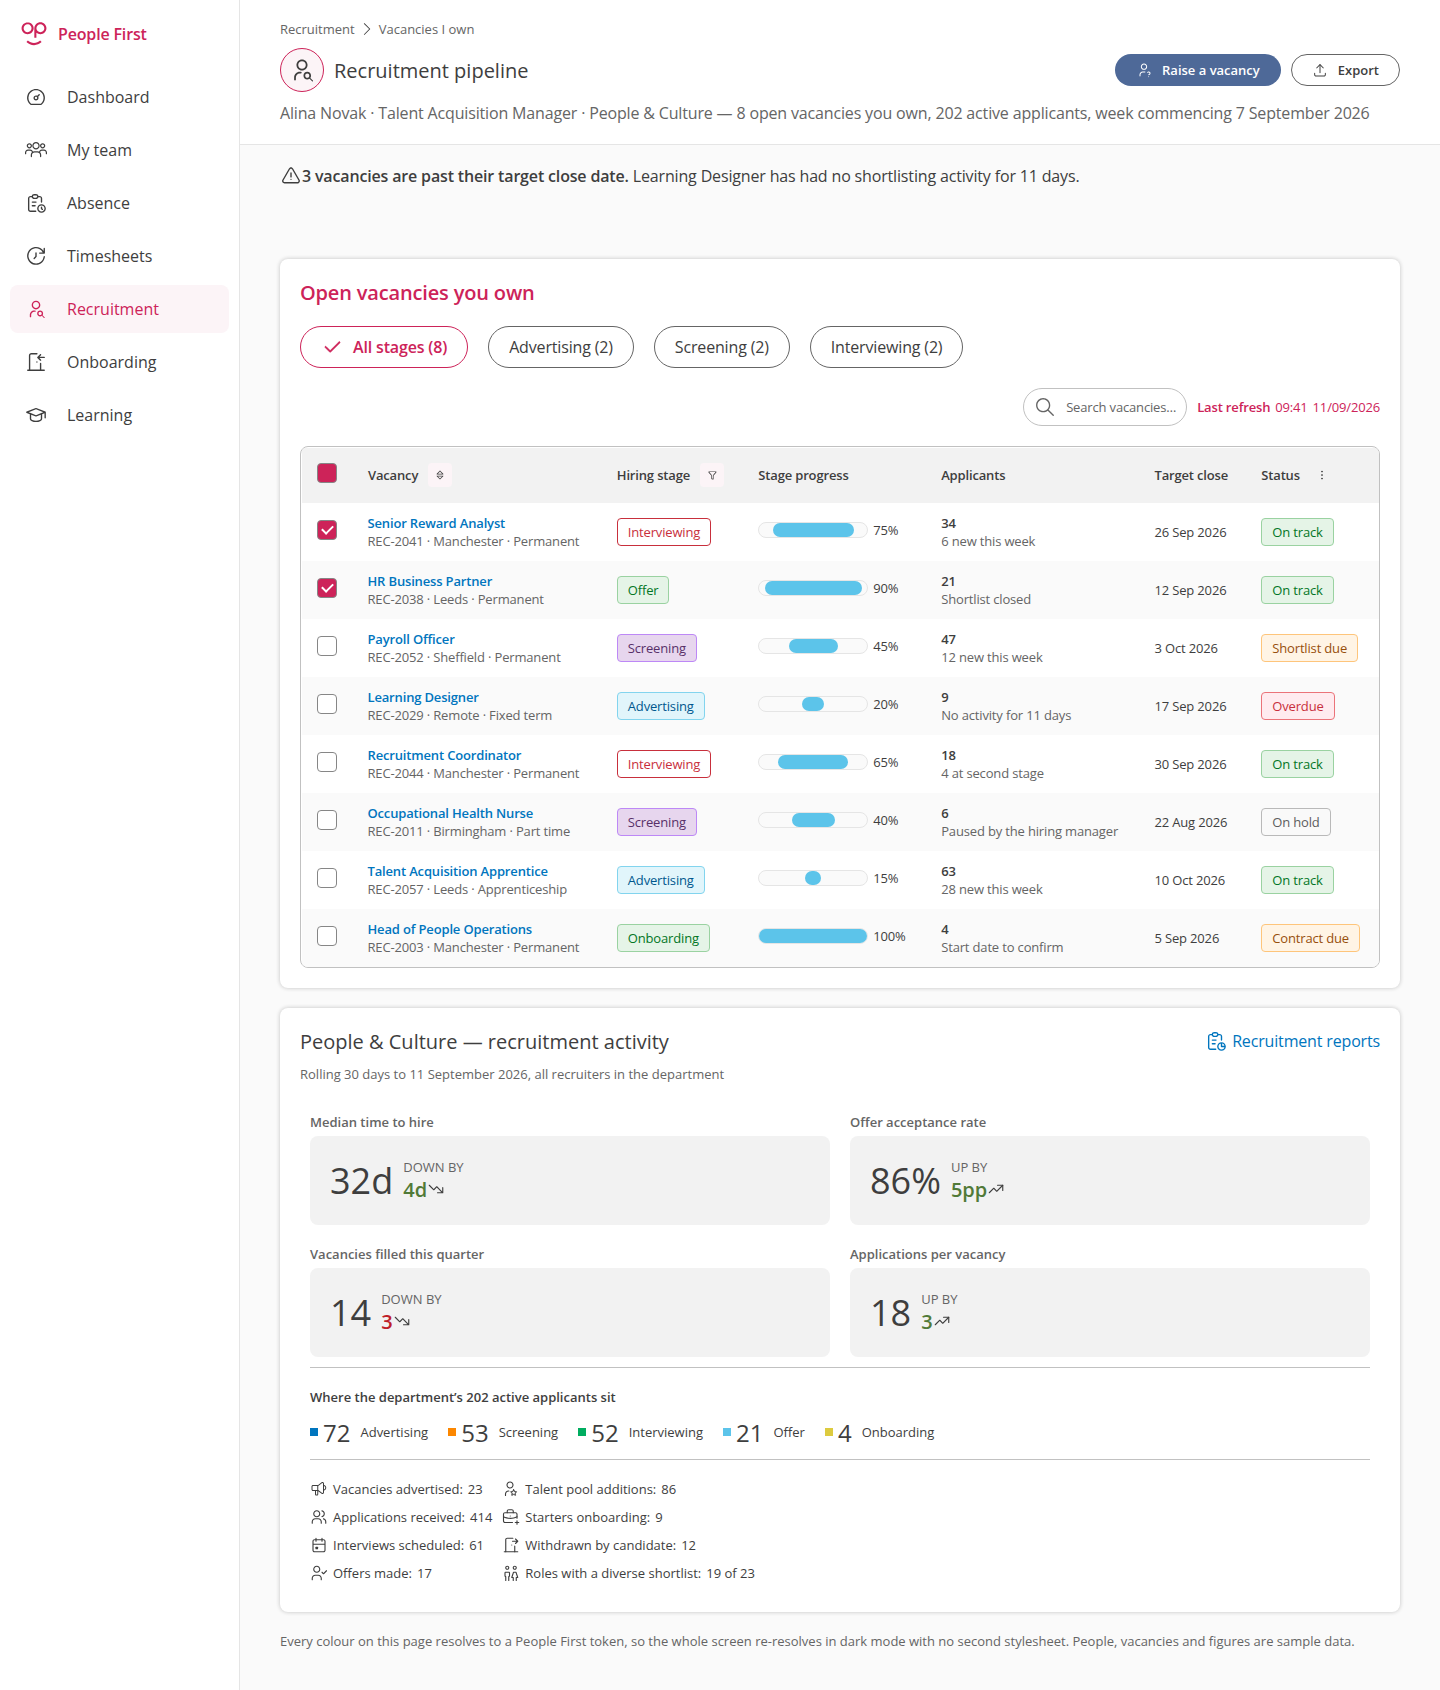
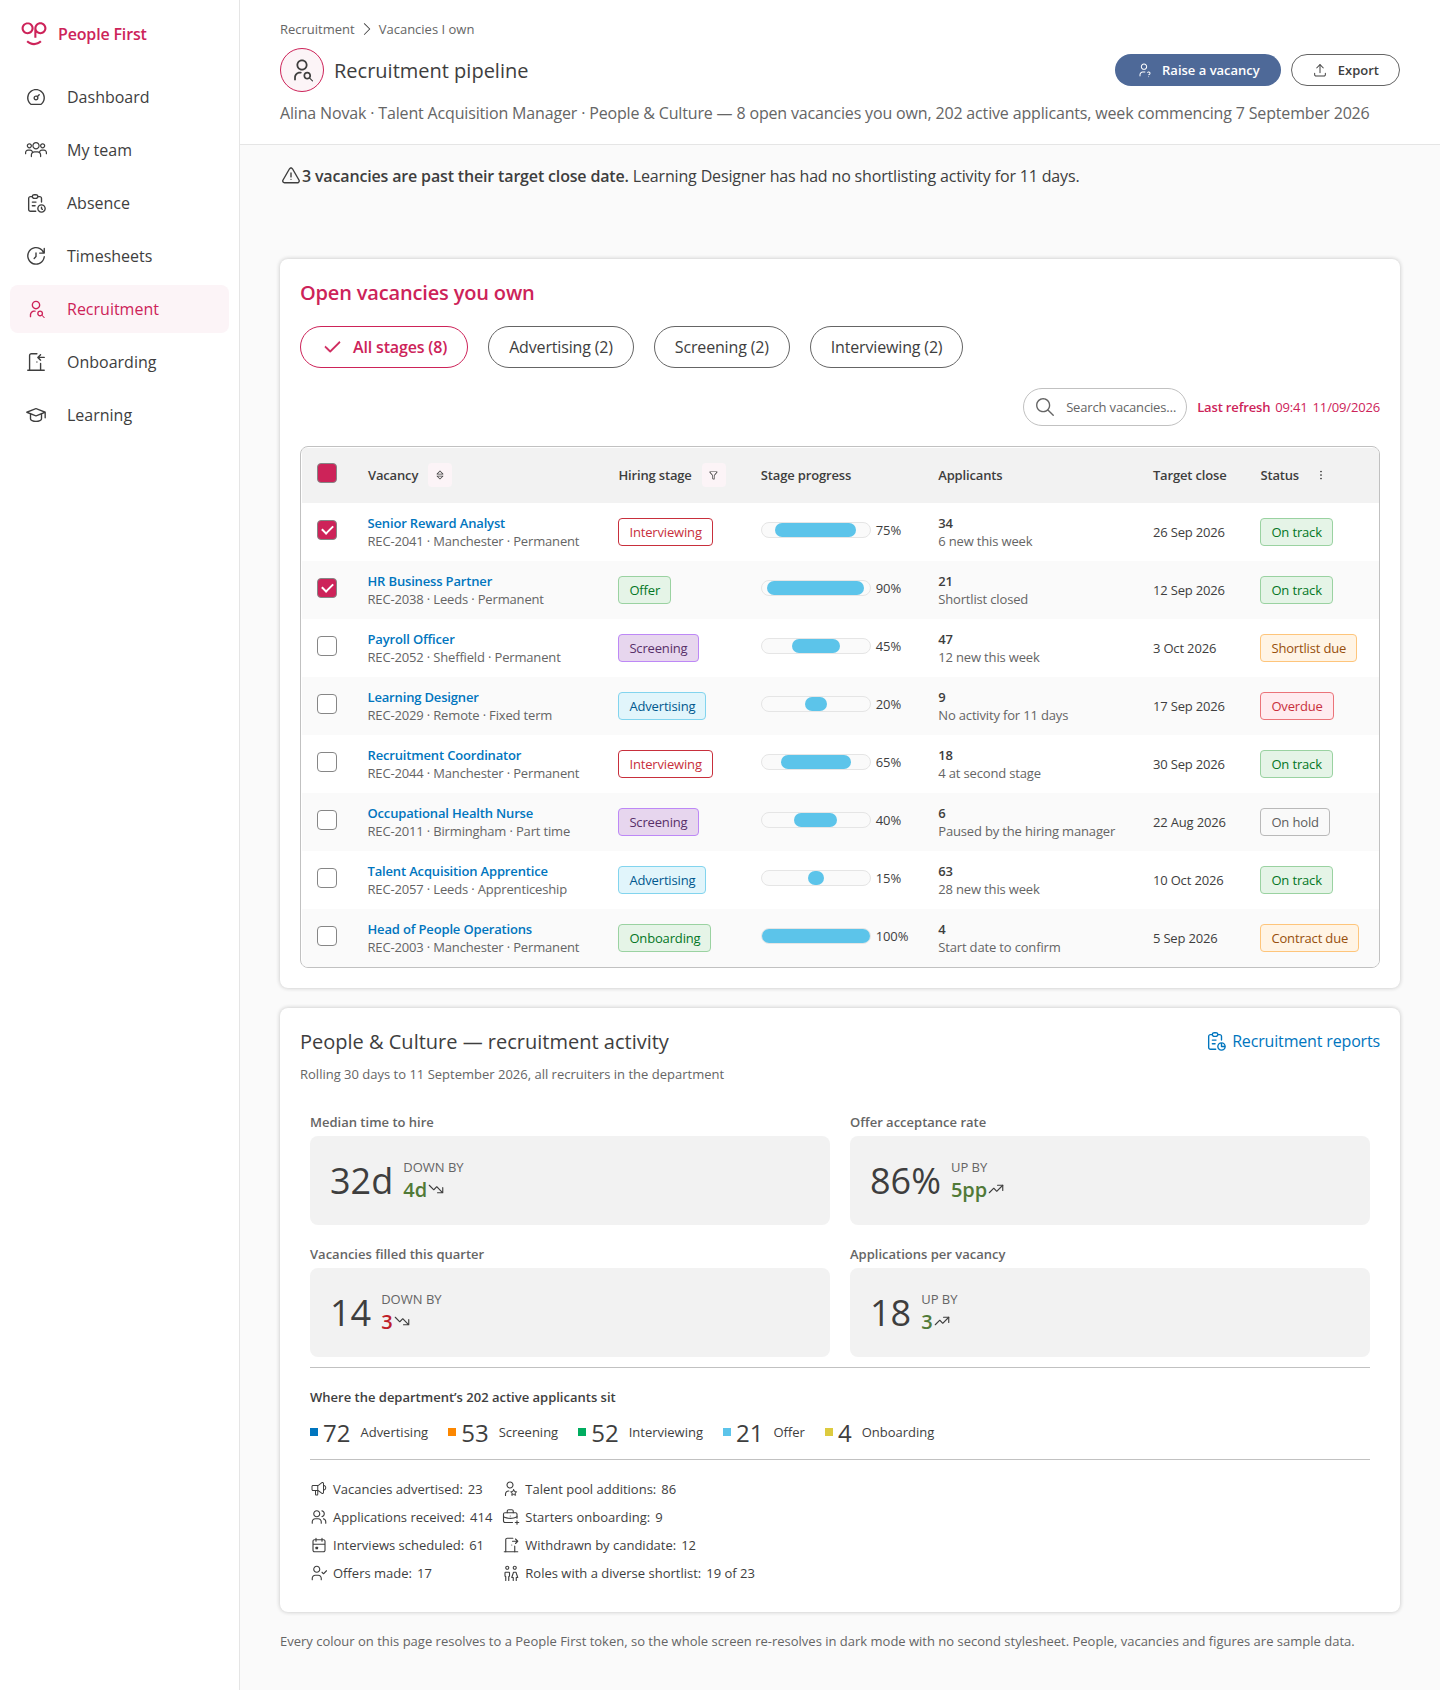
Three faults found by looking: the panel header, the footer and the bars
CLOSE BUTTON. payroll-run-summary wrote .sp-head and .sp-foot for its side
panel and gave them no CSS at all, and `.grow` is scoped to `.topbar` so it did
nothing there — the close button sat against the name instead of at the top
right. It uses pf-side-panel-header and pf-sticky-footer now, which
timesheet-approvals already did.

That is also worth recording about check-off-system: a hand-written component
with NO styles is the one kind it cannot see, because there is no property to
catch overriding a component. The score stayed at 163 throughout.

FOOTER. Both panels used Sticky footer's Stepper variant, which Figma lays out
SPACE_BETWEEN — that is for Back/Next. Approve and Raise query are both forward
actions, so Default (left-packed, the component's own 20px gap) is the variant
that fits.

PROGRESS BARS. Reported three times. Settled with evidence rather than another
restatement: Table cell (AG) has NO alignment axis at all — all five variants
are HORIZONTAL CENTER MIN and the stylesheet has zero rules keyed on cell
alignment; the header offers Left, Right and Checkbox, and no Centre. So where
the bar sits inside the cell is not the page's to change.

What the page does own is the COLUMN WIDTH, and that was the real cause: Stage
progress was taking a share of the table's surplus width while its contents hug
a 110px track, which stranded the bars with a field of empty cell beside them.
The column is sized to its content now and the surplus goes to Vacancy and
[…]

diff --git a/prototypes/payroll-run-summary.html b/prototypes/payroll-run-summary.html
@@ -12513,6 +12513,16 @@ th.col-status { width: 152px; }
   background: var(--pf-bg-primary); box-shadow: var(--pf-shadow-drop-shadow);
   display: flex; flex-direction: column;
 }
+/* The header and the footer are LIBRARY COMPONENTS, and were hand-written divs with no CSS
+   at all until the design owner pointed at both: `.sp-head` and `.sp-foot` had no rules in
+   this file, so the close button sat against the name instead of at the top right and the
+   footer had no box of its own. `Side panel header` and `Sticky footer` are real classes with
+   real geometry from Figma — 60px/10 15 and 52px/10 15. `width: 100%` and `flex: none` are
+   the inline-to-block promotion; the title growing is layout on a CHILD, not on the class. */
+.pf-side-panel-header { width: 100%; flex: none; }
+.pf-side-panel-header .grow { flex: 1; min-width: 0; overflow: hidden;
+                              text-overflow: ellipsis; white-space: nowrap; }
+.pf-sticky-footer { width: 100%; flex: none; }
 .sp-body { flex: 1; overflow-y: auto; padding: var(--pf-space-large);
            display: flex; flex-direction: column; gap: var(--pf-space-large); }
 .sp-person { display: flex; align-items: center; gap: var(--pf-space-medium); }
@@ -12908,7 +12918,7 @@ select.control { appearance: none; background-image:
 
   <!-- Side panel: review one employee's pay -->
   <aside class="sidepanel" aria-labelledby="sp-title">
-    <div class="sp-head">
+    <div class="pf-side-panel-header" data-size="Default" data-pf-id="side-panel-header-tomasz-kowalczyk">
       <span class="grow" id="sp-title">Tomasz Kowalczyk</span>
       <button class="pf-button pf-button--icon-only" data-type="Hollow" type="button" aria-label="Close panel" data-pf-id="button-close-panel"><svg class="pf-icon" width="14" height="14" aria-hidden="true" focusable="false" viewBox="0 0 36 36" fill="currentColor"><path fill-rule="evenodd" d="M27.8 8.2C28.23 8.64 28.23 9.36 27.8 9.8L9.8 27.8C9.36 28.23 8.64 28.23 8.2 27.8C7.77 27.36 7.77 26.64 8.2 26.2L26.2 8.2C26.64 7.77 27.36 7.77 27.8 8.2Z"/><path fill-rule="evenodd" d="M8.2 8.2C8.64 7.77 9.36 7.77 9.8 8.2L27.8 26.2C28.23 26.64 28.23 27.36 27.8 27.8C27.36 28.23 26.64 28.23 26.2 27.8L8.2 9.8C7.77 9.36 7.77 8.64 8.2 8.2Z"/></svg></button>
     </div>
@@ -12992,7 +13002,7 @@ select.control { appearance: none; background-image:
       </p>
     </div>
 
-    <div class="sp-foot">
+    <div class="pf-sticky-footer" data-default="Default" data-pf-id="sticky-footer-approve-pay">
       <button class="pf-button" data-type="Positive" type="button" disabled data-pf-id="button-approve-pay"><svg class="pf-icon" width="14" height="14" aria-hidden="true" focusable="false" viewBox="0 0 36 36" fill="currentColor"><path d="M29.2 9.7C29.64 9.27 30.36 9.27 30.8 9.7C31.23 10.14 31.23 10.86 30.8 11.3L15.8 26.3C15.36 26.73 14.64 26.73 14.2 26.3L6.7 18.8C6.27 18.36 6.27 17.64 6.7 17.2C7.14 16.77 7.86 16.77 8.3 17.2L15 23.91L29.2 9.7Z" stroke="currentColor" stroke-linecap="round" stroke-linejoin="round"/></svg>Approve pay</button>
       <button class="pf-button" data-type="Negative" type="button" data-pf-id="button-raise-query"><svg class="pf-icon" width="14" height="14" aria-hidden="true" focusable="false" viewBox="0 0 36 36" fill="currentColor"><path fill-rule="evenodd" d="M27.8 8.2C28.23 8.64 28.23 9.36 27.8 9.8L9.8 27.8C9.36 28.23 8.64 28.23 8.2 27.8C7.77 27.36 7.77 26.64 8.2 26.2L26.2 8.2C26.64 7.77 27.36 7.77 27.8 8.2Z"/><path fill-rule="evenodd" d="M8.2 8.2C8.64 7.77 9.36 7.77 9.8 8.2L27.8 26.2C28.23 26.64 28.23 27.36 27.8 27.8C27.36 28.23 26.64 28.23 26.2 27.8L8.2 9.8C7.77 9.36 7.77 8.64 8.2 8.2Z"/></svg>Raise query</button>
     </div>

diff --git a/prototypes/recruitment-pipeline.html b/prototypes/recruitment-pipeline.html
@@ -12384,6 +12384,15 @@ svg { display: block; }
    value. (`border-collapse` used to need this marker too, because check-off-system read it
    as a border property. It is table layout, not paint, and is free now.) */
 table { width: 100%; border-collapse: collapse; min-width: 1000px; }
+/* pf-new: COLUMN SIZING IS PAGE LAYOUT — the <table> is the page's, not a component.
+   `Table cell (AG)` packs its contents left on every one of its five variants and Figma gives
+   it no Alignment axis at all (the header has Left/Right/Checkbox, and no Centre), so where the
+   bar sits INSIDE the cell is not the page's to change. What the page does own is how wide the
+   column is, and Stage progress was taking a share of the table's surplus width while its
+   contents hug a 110px track — which is what stranded the bars against the left edge with a
+   field of empty cell beside them. `width: 1%` with nowrap is the auto-table idiom for "size
+   this column to its own content"; the surplus goes to Vacancy and Applicants, which use it. */
+table th:nth-child(4), table td:nth-child(4) { width: 1%; white-space: nowrap; }
 /* Line height is `normal` because that is what Figma sets on all 23 text styles; a
    cell treats its Figma height as a minimum, so an icon or a second line grows it. */
 thead th { text-align: left; white-space: nowrap; line-height: normal; }
@@ -12400,7 +12409,13 @@ td.pf-table-cell-ag[data-type][data-style] { display: table-cell; vertical-align
 .headcell { display: flex; align-items: center; gap: var(--pf-space-small); }
 .cellstack { display: flex; flex-direction: column; }
 .cellrow { display: flex; align-items: center; gap: var(--pf-space-small); }
-.pf-table-progress-bar { width: 100%; }
+/* The component owns its own width and its own packing: Figma draws `Table progress bar` as
+   HORIZONTAL CENTER MIN around a 110px track, so it hugs. Forcing `width: 100%` here stretched
+   it across the whole column while its contents stayed packed left, which is what left the bars
+   stranded against the edge with a field of empty cell to their right. Reported three times.
+   The design system has NO centre alignment for a table cell — Left, Right and Checkbox are the
+   only variants Figma draws — so the honest fix is to stop overriding the component, not to
+   invent one. */
 /* A Tags pill is 28px tall in Figma; a two-word status that wraps breaks it. */
 .pf-tags { white-space: nowrap; }
 

diff --git a/prototypes/timesheet-approvals.html b/prototypes/timesheet-approvals.html
@@ -12866,7 +12866,7 @@ select.pf-field { background-image:
       </p>
     </div>
 
-    <div class="pf-sticky-footer" data-default="Stepper" data-pf-id="sticky-footer-approve-raise-query">
+    <div class="pf-sticky-footer" data-default="Default" data-pf-id="sticky-footer-approve-raise-query">
       <button class="pf-button" data-type="Positive" type="button" data-pf-id="button-approve"><svg width="14" height="14" aria-hidden="true" focusable="false" viewBox="0 0 36 36" fill="currentColor"><path d="M29.2 9.7C29.64 9.27 30.36 9.27 30.8 9.7C31.23 10.14 31.23 10.86 30.8 11.3L15.8 26.3C15.36 26.73 14.64 26.73 14.2 26.3L6.7 18.8C6.27 18.36 6.27 17.64 6.7 17.2C7.14 16.77 7.86 16.77 8.3 17.2L15 23.91L29.2 9.7Z" stroke="currentColor" stroke-linecap="round" stroke-linejoin="round"/></svg>Approve</button>
       <button class="pf-button" data-type="Negative" type="button" data-pf-id="button-raise-query"><svg width="14" height="14" aria-hidden="true" focusable="false" viewBox="0 0 36 36" fill="currentColor"><g><path d="M19.13 18C19.13 17.38 18.62 16.88 18 16.88C17.38 16.88 16.88 17.38 16.88 18V18.02C16.88 18.64 17.38 19.14 18 19.14C18.62 19.14 19.13 18.64 19.13 18.02V18Z"/><path d="M12 16.88C12.62 16.88 13.13 17.38 13.13 18V18.02C13.13 18.64 12.62 19.14 12 19.14C11.38 19.14 10.88 18.64 10.88 18.02V18C10.88 17.38 11.38 16.88 12 16.88Z"/><path d="M25.13 18C25.13 17.38 24.62 16.88 24 16.88C23.38 16.88 22.88 17.38 22.88 18V18.02C22.88 18.64 23.38 19.14 24 19.14C24.62 19.14 25.13 18.64 25.13 18.02V18Z"/><path fill-rule="evenodd" d="M4.75 31.1C4.65 31.12 4.54 31.13 4.44 31.12C4.3 31.12 4.17 31.08 4.04 31.03C3.89 30.96 3.76 30.87 3.66 30.75C3.56 30.63 3.48 30.5 3.43 30.34C3.39 30.21 3.37 30.08 3.38 29.94C3.38 29.83 3.4 29.73 3.44 29.63L5.21 24.31C3.6 21.67 3.03 18.61 3.63 15.62C4.27 12.46 6.18 9.64 8.95 7.67C11.72 5.71 15.18 4.71 18.68 4.86C22.19 5 25.53 6.27 28.1 8.45C30.66 10.64 32.28 13.61 32.59 16.82C32.9 20.03 31.89 23.21 29.78 25.78C27.67 28.34 24.6 30.11 21.18 30.78C17.88 31.44 14.43 31.05 11.41 29.68L4.75 31.1ZM10.25 9.51C12.6 7.84 15.56 6.98 18.59 7.1C21.62 7.23 24.48 8.33 26.64 10.17C28.79 12 30.1 14.45 30.35 17.04C30.6 19.62 29.8 22.22 28.04 24.35C26.29 26.48 23.7 27.99 20.74 28.58C17.78 29.16 14.69 28.77 12.04 27.49C11.82 27.38 11.56 27.35 11.32 27.4L6.19 28.49L7.52 24.51C7.63 24.17 7.58 23.81 7.38 23.52C5.86 21.27 5.32 18.62 5.84 16.07C6.36 13.51 7.91 11.17 10.25 9.51Z"/></g></svg>Raise query</button>
     </div>

diff --git a/prototypes/timesheet-approvals.src.html b/prototypes/timesheet-approvals.src.html
@@ -819,7 +819,7 @@ select.pf-field { background-image:
       </p>
     </div>
 
-    <div class="pf-sticky-footer" data-default="Stepper" data-pf-id="sticky-footer-approve-raise-query">
+    <div class="pf-sticky-footer" data-default="Default" data-pf-id="sticky-footer-approve-raise-query">
       <button class="pf-button" data-type="Positive" type="button" data-pf-id="button-approve"><svg width="14" height="14" aria-hidden="true" focusable="false" viewBox="0 0 36 36" fill="currentColor"><path d="M29.2 9.7C29.64 9.27 30.36 9.27 30.8 9.7C31.23 10.14 31.23 10.86 30.8 11.3L15.8 26.3C15.36 26.73 14.64 26.73 14.2 26.3L6.7 18.8C6.27 18.36 6.27 17.64 6.7 17.2C7.14 16.77 7.86 16.77 8.3 17.2L15 23.91L29.2 9.7Z" stroke="currentColor" stroke-linecap="round" stroke-linejoin="round"/></svg>Approve</button>
       <button class="pf-button" data-type="Negative" type="button" data-pf-id="button-raise-query"><svg width="14" height="14" aria-hidden="true" focusable="false" viewBox="0 0 36 36" fill="currentColor"><g><path d="M19.13 18C19.13 17.38 18.62 16.88 18 16.88C17.38 16.88 16.88 17.38 16.88 18V18.02C16.88 18.64 17.38 19.14 18 19.14C18.62 19.14 19.13 18.64 19.13 18.02V18Z"/><path d="M12 16.88C12.62 16.88 13.13 17.38 13.13 18V18.02C13.13 18.64 12.62 19.14 12 19.14C11.38 19.14 10.88 18.64 10.88 18.02V18C10.88 17.38 11.38 16.88 12 16.88Z"/><path d="M25.13 18C25.13 17.38 24.62 16.88 24 16.88C23.38 16.88 22.88 17.38 22.88 18V18.02C22.88 18.64 23.38 19.14 24 19.14C24.62 19.14 25.13 18.64 25.13 18.02V18Z"/><path fill-rule="evenodd" d="M4.75 31.1C4.65 31.12 4.54 31.13 4.44 31.12C4.3 31.12 4.17 31.08 4.04 31.03C3.89 30.96 3.76 30.87 3.66 30.75C3.56 30.63 3.48 30.5 3.43 30.34C3.39 30.21 3.37 30.08 3.38 29.94C3.38 29.83 3.4 29.73 3.44 29.63L5.21 24.31C3.6 21.67 3.03 18.61 3.63 15.62C4.27 12.46 6.18 9.64 8.95 7.67C11.72 5.71 15.18 4.71 18.68 4.86C22.19 5 25.53 6.27 28.1 8.45C30.66 10.64 32.28 13.61 32.59 16.82C32.9 20.03 31.89 23.21 29.78 25.78C27.67 28.34 24.6 30.11 21.18 30.78C17.88 31.44 14.43 31.05 11.41 29.68L4.75 31.1ZM10.25 9.51C12.6 7.84 15.56 6.98 18.59 7.1C21.62 7.23 24.48 8.33 26.64 10.17C28.79 12 30.1 14.45 30.35 17.04C30.6 19.62 29.8 22.22 28.04 24.35C26.29 26.48 23.7 27.99 20.74 28.58C17.78 29.16 14.69 28.77 12.04 27.49C11.82 27.38 11.56 27.35 11.32 27.4L6.19 28.49L7.52 24.51C7.63 24.17 7.58 23.81 7.38 23.52C5.86 21.27 5.32 18.62 5.84 16.07C6.36 13.51 7.91 11.17 10.25 9.51Z"/></g></svg>Raise query</button>
     </div>

diff --git a/prototypes/recruitment-pipeline.src.html b/prototypes/recruitment-pipeline.src.html
@@ -128,6 +128,15 @@ svg { display: block; }
    value. (`border-collapse` used to need this marker too, because check-off-system read it
    as a border property. It is table layout, not paint, and is free now.) */
 table { width: 100%; border-collapse: collapse; min-width: 1000px; }
+/* pf-new: COLUMN SIZING IS PAGE LAYOUT — the <table> is the page's, not a component.
+   `Table cell (AG)` packs its contents left on every one of its five variants and Figma gives
+   it no Alignment axis at all (the header has Left/Right/Checkbox, and no Centre), so where the
+   bar sits INSIDE the cell is not the page's to change. What the page does own is how wide the
+   column is, and Stage progress was taking a share of the table's surplus width while its
+   contents hug a 110px track — which is what stranded the bars against the left edge with a
+   field of empty cell beside them. `width: 1%` with nowrap is the auto-table idiom for "size
+   this column to its own content"; the surplus goes to Vacancy and Applicants, which use it. */
+table th:nth-child(4), table td:nth-child(4) { width: 1%; white-space: nowrap; }
 /* Line height is `normal` because that is what Figma sets on all 23 text styles; a
    cell treats its Figma height as a minimum, so an icon or a second line grows it. */
 thead th { text-align: left; white-space: nowrap; line-height: normal; }
@@ -144,7 +153,13 @@ td.pf-table-cell-ag[data-type][data-style] { display: table-cell; vertical-align
 .headcell { display: flex; align-items: center; gap: var(--pf-space-small); }
 .cellstack { display: flex; flex-direction: column; }
 .cellrow { display: flex; align-items: center; gap: var(--pf-space-small); }
-.pf-table-progress-bar { width: 100%; }
+/* The component owns its own width and its own packing: Figma draws `Table progress bar` as
+   HORIZONTAL CENTER MIN around a 110px track, so it hugs. Forcing `width: 100%` here stretched
+   it across the whole column while its contents stayed packed left, which is what left the bars
+   stranded against the edge with a field of empty cell to their right. Reported three times.
+   The design system has NO centre alignment for a table cell — Left, Right and Checkbox are the
+   only variants Figma draws — so the honest fix is to stop overriding the component, not to
+   invent one. */
 /* A Tags pill is 28px tall in Figma; a two-word status that wraps breaks it. */
 .pf-tags { white-space: nowrap; }
 

diff --git a/prototypes/payroll-run-summary.src.html b/prototypes/payroll-run-summary.src.html
@@ -257,6 +257,16 @@ th.col-status { width: 152px; }
   background: var(--pf-bg-primary); box-shadow: var(--pf-shadow-drop-shadow);
   display: flex; flex-direction: column;
 }
+/* The header and the footer are LIBRARY COMPONENTS, and were hand-written divs with no CSS
+   at all until the design owner pointed at both: `.sp-head` and `.sp-foot` had no rules in
+   this file, so the close button sat against the name instead of at the top right and the
+   footer had no box of its own. `Side panel header` and `Sticky footer` are real classes with
+   real geometry from Figma — 60px/10 15 and 52px/10 15. `width: 100%` and `flex: none` are
+   the inline-to-block promotion; the title growing is layout on a CHILD, not on the class. */
+.pf-side-panel-header { width: 100%; flex: none; }
+.pf-side-panel-header .grow { flex: 1; min-width: 0; overflow: hidden;
+                              text-overflow: ellipsis; white-space: nowrap; }
+.pf-sticky-footer { width: 100%; flex: none; }
 .sp-body { flex: 1; overflow-y: auto; padding: var(--pf-space-large);
            display: flex; flex-direction: column; gap: var(--pf-space-large); }
 .sp-person { display: flex; align-items: center; gap: var(--pf-space-medium); }
@@ -652,7 +662,7 @@ select.control { appearance: none; background-image:
 
   <!-- Side panel: review one employee's pay -->
   <aside class="sidepanel" aria-labelledby="sp-title">
-    <div class="sp-head">
+    <div class="pf-side-panel-header" data-size="Default" data-pf-id="side-panel-header-tomasz-kowalczyk">
       <span class="grow" id="sp-title">Tomasz Kowalczyk</span>
       <button class="pf-button pf-button--icon-only" data-type="Hollow" type="button" aria-label="Close panel" data-pf-id="button-close-panel"><!--pf-icon:close-x-cancel 14--></button>
     </div>
@@ -736,7 +746,7 @@ select.control { appearance: none; background-image:
       </p>
     </div>
 
-    <div class="sp-foot">
+    <div class="pf-sticky-footer" data-default="Default" data-pf-id="sticky-footer-approve-pay">
       <button class="pf-button" data-type="Positive" type="button" disabled data-pf-id="button-approve-pay"><!--pf-icon:tick 14-->Approve pay</button>
       <button class="pf-button" data-type="Negative" type="button" data-pf-id="button-raise-query"><!--pf-icon:close-x-cancel 14-->Raise query</button>
     </div>

diff --git a/CLAUDE.md b/CLAUDE.md
@@ -1022,6 +1022,13 @@ It does not look at type classes. A component composes its own type, so a page m
 exemption is for, not a licence: a prototype CAN be on-system, and the newest one is. Builds
 FROM a design are not exempt.
 
+**A hand-written component with NO styles is the one kind this check cannot see**, and it is
+the kind that renders wrong. `payroll-run-summary` wrote `.sp-head` and `.sp-foot` for its side
+panel and gave them **no CSS at all** — so there was no property to catch overriding a
+component, and the score stayed at 163 while the close button sat against the name instead of
+at the top right and the footer had no box of its own. Both were reported by looking. The page
+uses `pf-side-panel-header` and `pf-sticky-footer` now, which `timesheet-approvals` already did.
+
 Those four numbers are **checked**, not typed. `check-off-system.mjs` exports its scorer and
 `check-skill-classes.mjs` imports it, so the figure in this file and the figure the check
 computes have one source. That was the loose end: this paragraph read "30-63 off-system each"
